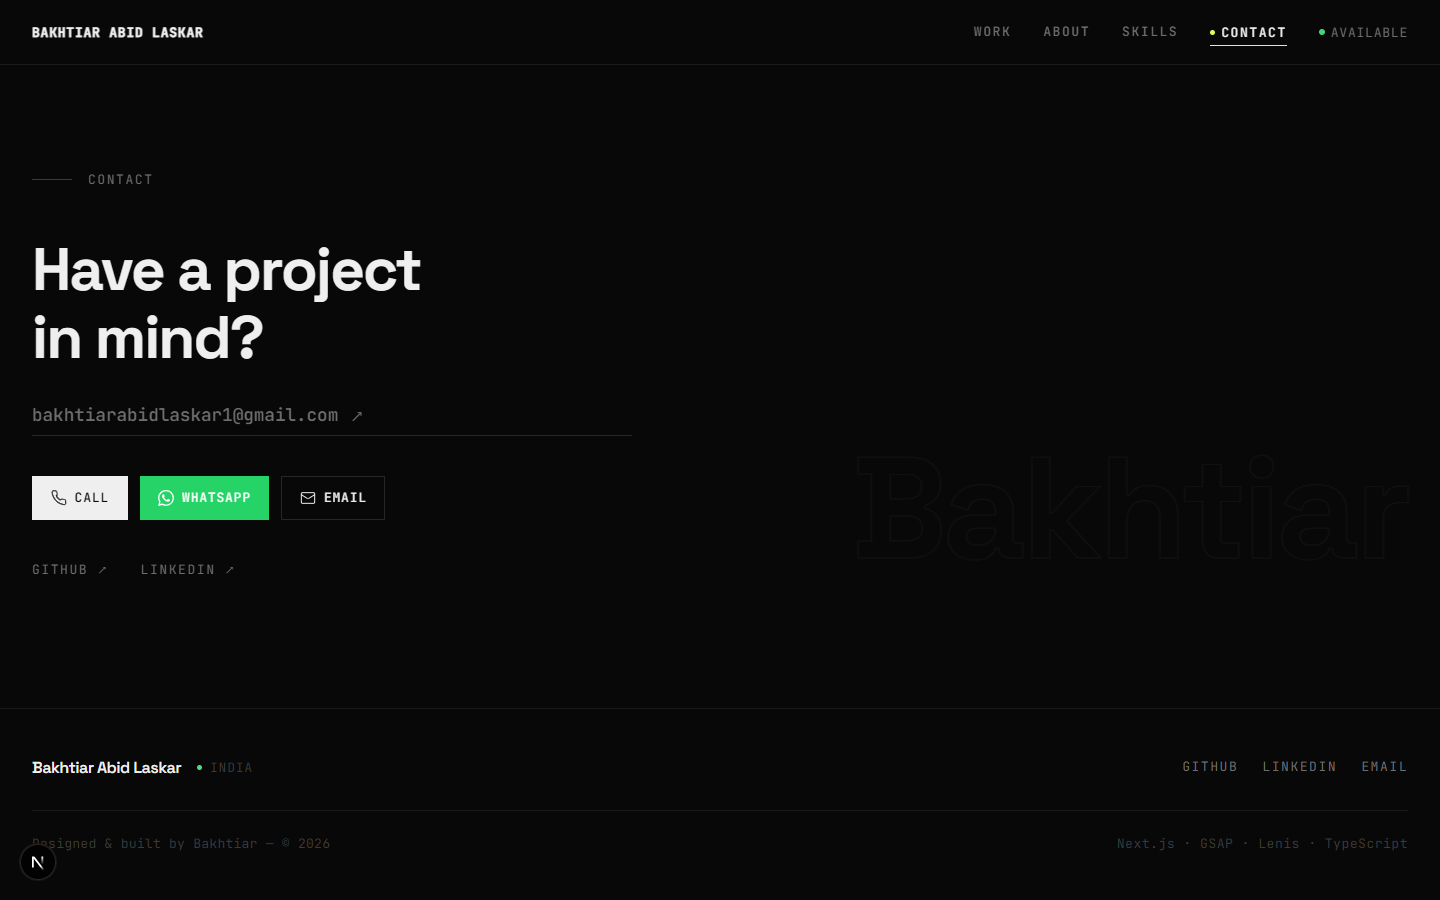
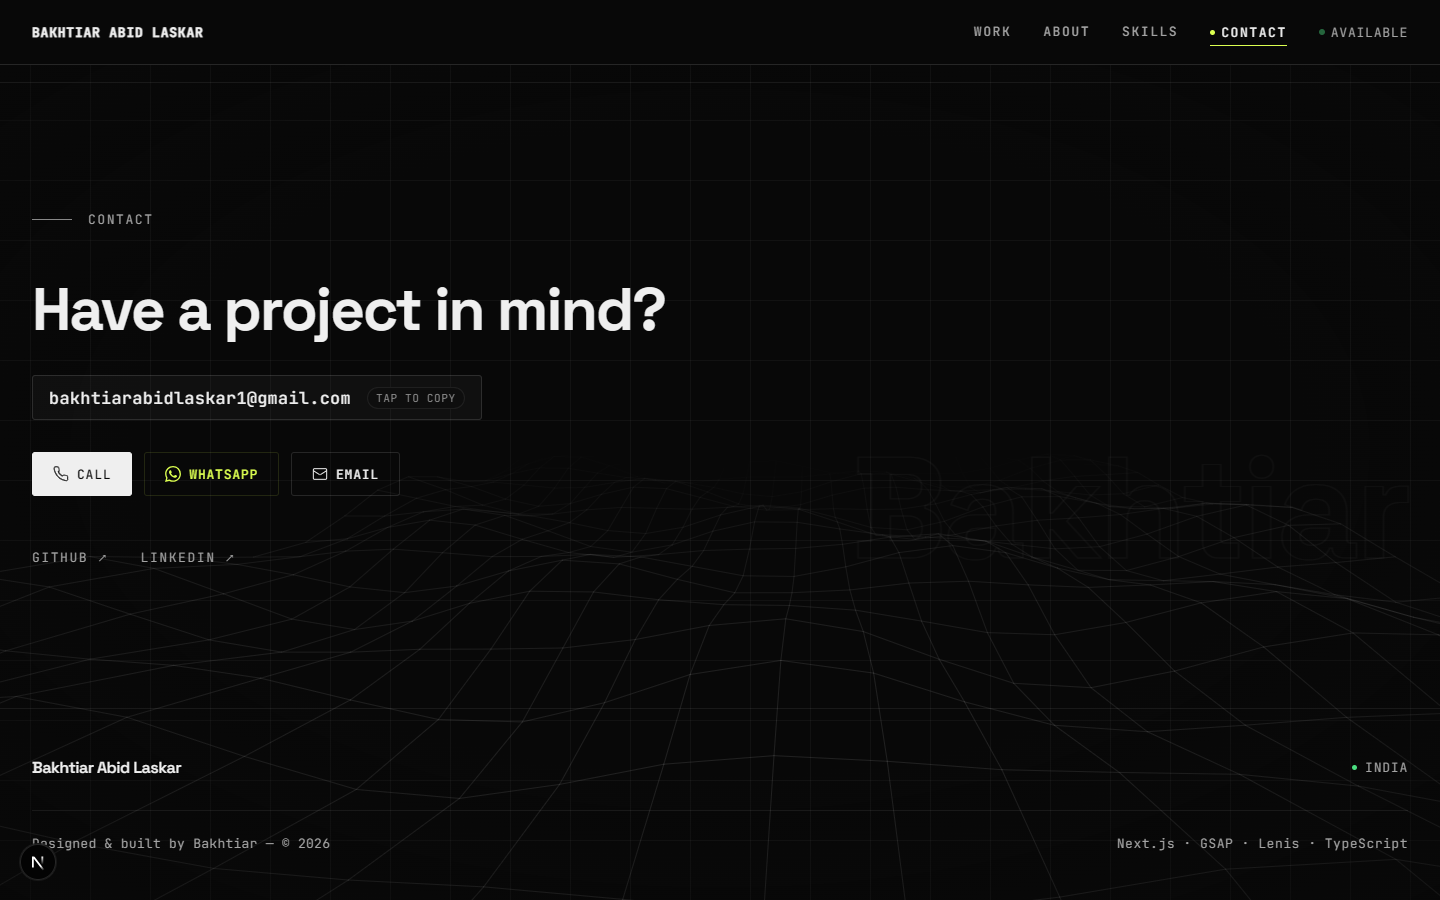
feat(grid): apply static fine grey gridline and wireframe mesh across site background without green dots

diff --git a/src/components/BackgroundGrid/BackgroundGrid.tsx b/src/components/BackgroundGrid/BackgroundGrid.tsx
@@ -1,0 +1,128 @@
+'use client';
+
+import React, { useEffect, useRef } from 'react';
+import styles from './BackgroundGrid.module.css';
+
+interface Point3D {
+  x: number;
+  y: number;
+  z: number;
+}
+
+export const BackgroundGrid: React.FC = () => {
+  const canvasRef = useRef<HTMLCanvasElement | null>(null);
+
+  useEffect(() => {
+    const canvas = canvasRef.current;
+    if (!canvas) return;
+
+    const ctx = canvas.getContext('2d');
+    if (!ctx) return;
+
+    const renderStaticGrid = () => {
+      const width = (canvas.width = window.innerWidth);
+      const height = (canvas.height = window.innerHeight);
+
+      ctx.clearRect(0, 0, width, height);
+
+      // Fine grey 3D wireframe mesh matching the hero grid design
+      const gridSize = width < 768 ? 16 : 22;
+      const spacing = width < 768 ? 55 : 68;
+      const points: Point3D[] = [];
+
+      for (let i = -gridSize / 2; i <= gridSize / 2; i++) {
+        for (let j = -gridSize / 2; j <= gridSize / 2; j++) {
+          points.push({
+            x: j * spacing,
+            y: 60 + Math.sin(Math.sqrt(i * i + j * j) * 0.32) * 22,
+            z: i * spacing,
+          });
+        }
+      }
+
+      const fov = 460;
+      const cameraZ = 520;
+      const cx = width < 768 ? width * 0.5 : width * 0.55;
+      const cy = height * 0.58;
+
+      // Fixed 3D perspective orientation (unmoving, not animated)
+      const rx = 0.28;
+      const ry = 0.04;
+      const cosX = Math.cos(rx);
+      const sinX = Math.sin(rx);
+      const cosY = Math.cos(ry);
+      const sinY = Math.sin(ry);
+
+      const projected = points.map((p) => {
+        const wave = Math.sin(1.2 + (p.x * 0.01 + p.z * 0.015)) * 20 + Math.cos(0.8 + (p.x * 0.016 - p.z * 0.012)) * 12;
+        const py = p.y + wave;
+
+        const x1 = p.x * cosY + p.z * sinY;
+        const z1 = -p.x * sinY + p.z * cosY;
+
+        const y2 = py * cosX - z1 * sinX;
+        const z2 = py * sinX + z1 * cosX + cameraZ;
+
+        if (z2 <= 20) return null;
+
+        const scale = fov / z2;
+        const sx = cx + x1 * scale;
+        const sy = cy + y2 * scale;
+        const alpha = Math.max(0, Math.min(0.35, (1 - z2 / 1200) * 0.45));
+
+        return { sx, sy, alpha, z: z2 };
+      });
+
+      // Render only fine grey gridlines (no green dots, zero dots)
+      ctx.lineWidth = 1;
+      const cols = gridSize + 1;
+      for (let i = 0; i < cols; i++) {
+        for (let j = 0; j < cols; j++) {
+          const idx = i * cols + j;
+          const p1 = projected[idx];
+          if (!p1) continue;
+
+          // Horizontal gridlines
+          if (j < cols - 1) {
+            const p2 = projected[idx + 1];
+            if (p2) {
+              const lineAlpha = (p1.alpha + p2.alpha) * 0.5;
+              ctx.strokeStyle = `rgba(255, 255, 255, ${lineAlpha * 0.42})`;
+              ctx.beginPath();
+              ctx.moveTo(p1.sx, p1.sy);
+              ctx.lineTo(p2.sx, p2.sy);
+              ctx.stroke();
+            }
+          }
+
+          // Vertical gridlines
+          if (i < cols - 1) {
+            const p2 = projected[idx + cols];
+            if (p2) {
+              const lineAlpha = (p1.alpha + p2.alpha) * 0.5;
+              ctx.strokeStyle = `rgba(255, 255, 255, ${lineAlpha * 0.42})`;
+              ctx.beginPath();
+              ctx.moveTo(p1.sx, p1.sy);
+              ctx.lineTo(p2.sx, p2.sy);
+              ctx.stroke();
+            }
+          }
+        }
+      }
+    };
+
+    renderStaticGrid();
+    window.addEventListener('resize', renderStaticGrid);
+    return () => window.removeEventListener('resize', renderStaticGrid);
+  }, []);
+
+  return (
+    <div className={styles.container} aria-hidden="true">
+      <div className={styles.gridPattern} />
+      <canvas ref={canvasRef} className={styles.canvas} />
+      <div className={styles.vignette} />
+    </div>
+  );
+};
+
+export default BackgroundGrid;

diff --git a/src/components/Shell/Shell.tsx b/src/components/Shell/Shell.tsx
@@ -10,6 +10,7 @@ import EducationSkills from '@/components/EducationSkills/EducationSkills';
 import Contact from '@/components/Contact/Contact';
 import Footer from '@/components/Footer/Footer';
 import CustomCursor from '@/components/CustomCursor/CustomCursor';
+import BackgroundGrid from '@/components/BackgroundGrid/BackgroundGrid';
 import { initMotionRegistry, destroyMotionRegistry } from '@/motion/registry';
 import styles from './Shell.module.css';
 
@@ -39,6 +40,7 @@ export const Shell: React.FC = () => {
 
   return (
     <div className={styles.pageWrapper}>
+      <BackgroundGrid />
       <CustomCursor />
       <SkipLink targetId="main-content" />
       <Header onNavigate={handleNavigate} />

diff --git a/src/components/BackgroundGrid/BackgroundGrid.module.css b/src/components/BackgroundGrid/BackgroundGrid.module.css
@@ -1,0 +1,31 @@
+.container {
+  position: fixed;
+  inset: 0;
+  pointer-events: none;
+  z-index: 0;
+  overflow: hidden;
+}
+
+.gridPattern {
+  position: absolute;
+  inset: 0;
+  background-image:
+    linear-gradient(to right, rgba(255, 255, 255, 0.04) 1px, transparent 1px),
+    linear-gradient(to bottom, rgba(255, 255, 255, 0.04) 1px, transparent 1px);
+  background-size: 60px 60px;
+  background-position: center top;
+}
+
+.canvas {
+  position: absolute;
+  inset: 0;
+  width: 100%;
+  height: 100%;
+  opacity: 0.7;
+}
+
+.vignette {
+  position: absolute;
+  inset: 0;
+  background: radial-gradient(ellipse 90% 80% at 50% 50%, transparent 45%, rgba(8, 8, 8, 0.65) 100%);
+}

diff --git a/src/components/Footer/Footer.module.css b/src/components/Footer/Footer.module.css
@@ -1,4 +1,6 @@
 .footer {
+  position: relative;
+  z-index: 1;
   border-top: 1px solid var(--color-border);
   padding: var(--space-12) var(--space-8) calc(var(--space-12) + var(--safe-area-bottom));
   overflow-x: clip;

diff --git a/src/components/Hero/Hero.module.css b/src/components/Hero/Hero.module.css
@@ -6,6 +6,7 @@
   justify-content: center;
   padding: calc(64px + var(--space-4)) var(--space-8) var(--space-10);
   overflow: hidden;
+  background-color: var(--color-bg);
 }
 
 /* Background */

diff --git a/src/components/Shell/Shell.module.css b/src/components/Shell/Shell.module.css
@@ -5,5 +5,7 @@
 }
 
 .mainContent {
+  position: relative;
+  z-index: 1;
   outline: none;
 }
